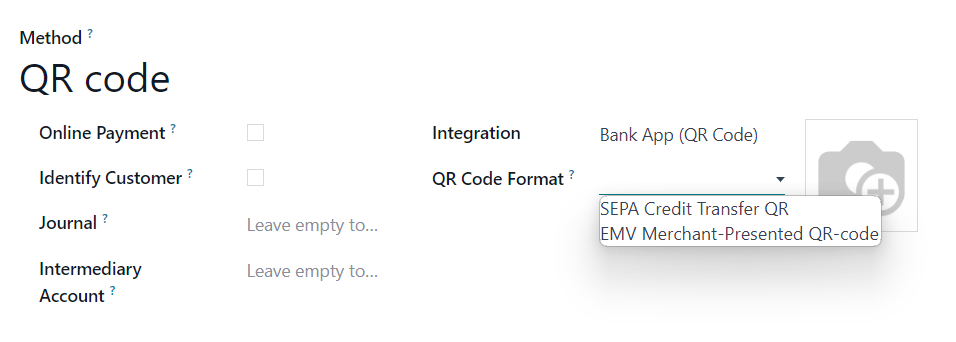
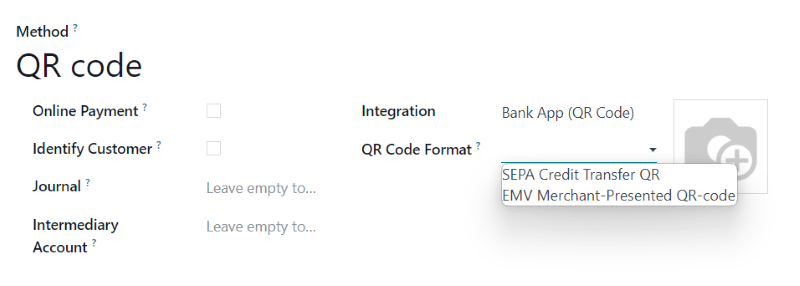
[IMP] pos: resize & scale  content (table and screenshots)
task-4521596

X-original-commit: 989f2faf9af7192ce2c39b2b9d60898e728f23b4

diff --git a/content/applications/sales/point_of_sale/payment_methods/qr_code_payment.rst b/content/applications/sales/point_of_sale/payment_methods/qr_code_payment.rst
@@ -21,6 +21,7 @@ Then, as the QR code type differs depending on your country, follow the correspo
 page from the following table to set them up.
 
 .. list-table::
+   :widths: 20 20 20 40
    :header-rows: 1
 
    * - QR code types
@@ -75,6 +76,7 @@ Create the payment method
 
 .. image:: qr_code_payment/qr-payment-methods-setting.png
    :alt: QR code payment method configuration
+   :scale: 85 %
 
 .. important::
    At least one bank account must be defined in the journal to allow QR code payments to be
@@ -85,6 +87,7 @@ the payment method to your POS under the :guilabel:`Payment` section.
 
 .. image:: qr_code_payment/qr-configuration-setting.png
    :alt: Enable QR code payment method
+   :scale: 85 %
 
 Register payments using QR codes
 ================================
@@ -94,6 +97,7 @@ and displayed on the screen for the customer to scan and pay with their mobile b
 
 .. image:: qr_code_payment/qr-payment-example.png
    :alt: QR code payment example
+   :scale: 75 %
 
 Hit :guilabel:`Confirm Payment` to validate the transaction.
 
